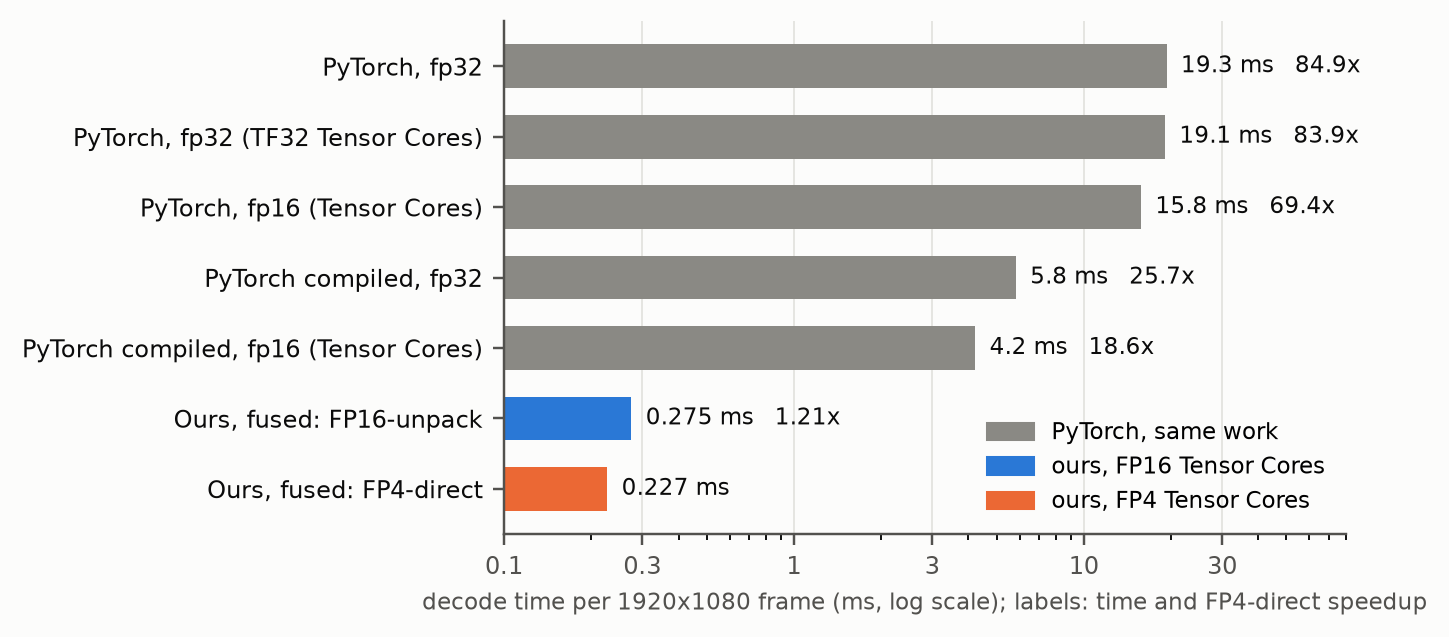
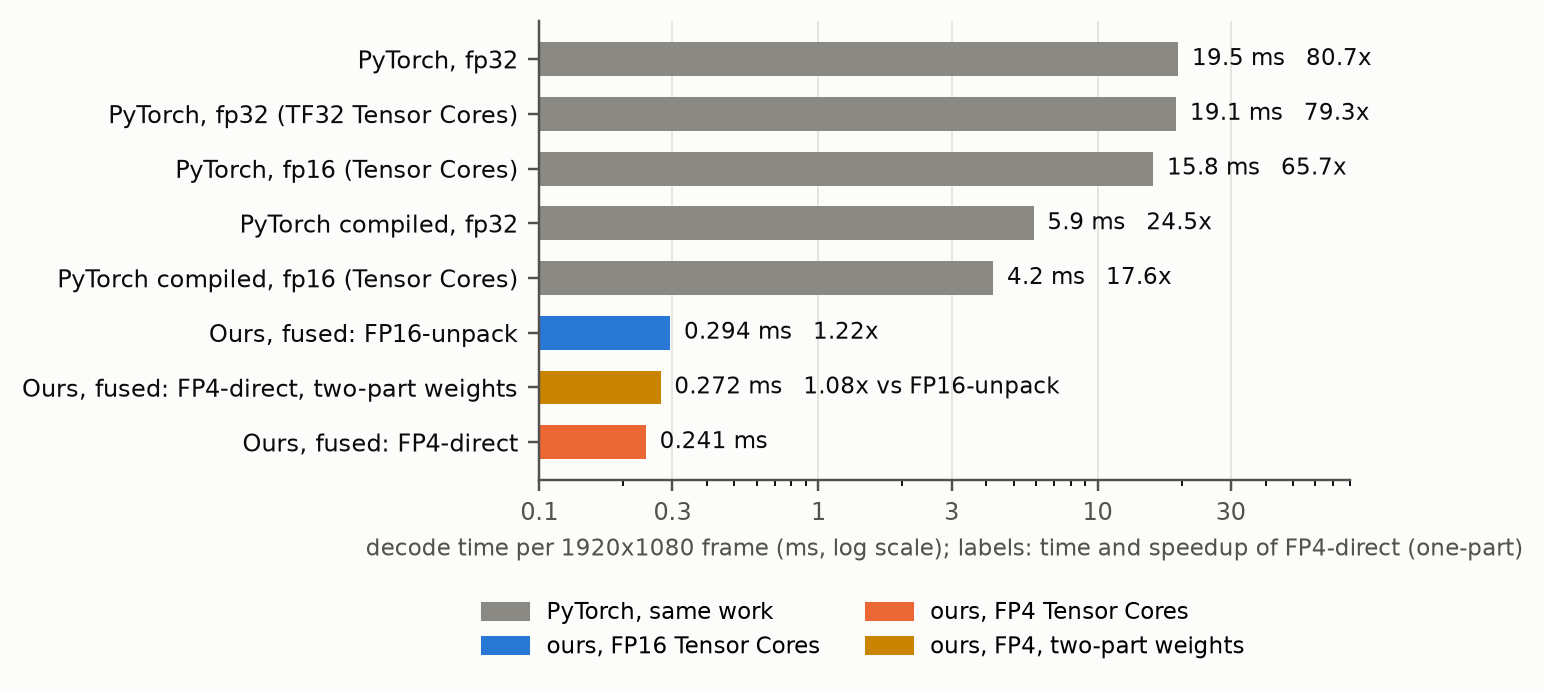
Speed chart rerun on the current kernel with two-part weights; paper-agent answers
v2_baselines.json: FP16-unpack 0.294 ms, FP4-direct 0.241 ms (1.22x), two-part 0.272 ms (1.08x);
PyTorch compiled fp16 4.23 ms. Old 0.227 ms set retired.

Claude-Session: https://claude.ai/code/session_01Nj5Cv9MaU5GTZzNHxUYmzu

Changed region(s): [[0.0, 0.0298, 0.9938, 0.8053], [0.2795, 0.8352, 0.9938, 0.9545]]

diff --git a/tools/plot_decoder_baselines.py b/tools/plot_decoder_baselines.py
@@ -16,7 +16,7 @@ from matplotlib.patches import Patch
 from sixteen.figures import INK, MUTED, style_axes
 
 ROOT = pathlib.Path(__file__).resolve().parent.parent
-GRAY, BLUE, ORANGE = "#8a8984", "#2a78d6", "#eb6834"
+GRAY, BLUE, ORANGE, AMBER = "#8a8984", "#2a78d6", "#eb6834", "#c98500"
 LABELS = {  # data key -> (axis label, color)
     "pytorch eager fp32 (CUDA cores)": ("PyTorch, fp32", GRAY),
     "pytorch eager fp32, TF32 Tensor Cores": ("PyTorch, fp32 (TF32 Tensor Cores)", GRAY),
@@ -25,7 +25,9 @@ LABELS = {  # data key -> (axis label, color)
     "pytorch compiled fp16 (Tensor Cores)": ("PyTorch compiled, fp16 (Tensor Cores)", GRAY),
     "CUDA FP16-unpack (ours)": ("Ours, fused: FP16-unpack", BLUE),
     "CUDA FP4-direct (ours)": ("Ours, fused: FP4-direct", ORANGE),
+    "CUDA FP4-direct two-part weights (ours)": ("Ours, fused: FP4-direct, two-part weights", AMBER),
 }
+X2 = "CUDA FP4-direct two-part weights (ours)"
 
 
 def main():
@@ -33,7 +35,7 @@ def main():
     ms = r["ms"]
     fp4 = ms["CUDA FP4-direct (ours)"]
     keys = sorted(ms, key=lambda k: ms[k], reverse=True)  # slowest on top
-    fig, ax = plt.subplots(figsize=(6.4, 3.0), facecolor="#fcfcfb")
+    fig, ax = plt.subplots(figsize=(6.4, 3.0 + 0.35 * (X2 in ms)), facecolor="#fcfcfb")
     style_axes(ax)
     ax.grid(axis="y", visible=False)
     y = range(len(keys))
@@ -46,15 +48,18 @@ def main():
     ax.set_yticks(list(y), [LABELS[k][0] for k in keys], fontsize=8, color=INK)
     for i, k in enumerate(keys):
         txt = f"{ms[k]:.3f} ms" if ms[k] < 1 else f"{ms[k]:.1f} ms"
-        if k != "CUDA FP4-direct (ours)":
+        if k == X2:
+            txt += f"   {ms["CUDA FP16-unpack (ours)"] / ms[k]:.2f}x vs FP16-unpack"
+        elif k != "CUDA FP4-direct (ours)":
             s = ms[k] / fp4
             txt += f"   {s:.2f}x" if s < 10 else f"   {s:.1f}x"
         ax.text(ms[k] * 1.12, i, txt, va="center", fontsize=7.5, color=INK)
-    ax.set_xlabel("decode time per 1920x1080 frame (ms, log scale); labels: time and FP4-direct speedup",
+    ax.set_xlabel("decode time per 1920x1080 frame (ms, log scale); labels: time and speedup of FP4-direct (one-part)",
                   fontsize=7.5, color=MUTED)
     ax.legend(handles=[Patch(color=GRAY, label="PyTorch, same work"), Patch(color=BLUE, label="ours, FP16 Tensor Cores"),
-                       Patch(color=ORANGE, label="ours, FP4 Tensor Cores")],
-              loc="lower right", frameon=False, fontsize=7.5)
+                       Patch(color=ORANGE, label="ours, FP4 Tensor Cores")]
+                      + ([Patch(color=AMBER, label="ours, FP4, two-part weights")] if X2 in ms else []),
+              loc="upper center", bbox_to_anchor=(0.4, -0.22), ncol=2, frameon=False, fontsize=7.5)
     fig.tight_layout()
     for ext in ("png", "pdf"):
         fig.savefig(ROOT / f"results/decoder/speedup.{ext}", dpi=220, bbox_inches="tight")

diff --git a/tools/bench_baselines.py b/tools/bench_baselines.py
@@ -5,7 +5,7 @@ texel choice, the 4 neighbouring latent texels of both grids, positional
 encoding + fractions, and the 3-layer MLP. Latents and layer-1 weights are
 quantized once up front (pre-quantized), so only decoding is timed.
 
-    pixi run python tools/bench_baselines.py <concat4 + nvfp4-weights model.pt>
+    pixi run python tools/bench_baselines.py <concat4 + nvfp4-weights model.pt> [--x2 <nvfp4x2-weights model.pt>]
 """
 
 import argparse
@@ -51,6 +51,7 @@ def make_forward(dec, dtype):
 def main():
     ap = argparse.ArgumentParser()
     ap.add_argument("ckpt")
+    ap.add_argument("--x2", help="concat4 model with two-term NVFP4 layer-1 weights: also time FP4-direct two-part")
     ap.add_argument("--out", default="results/decoder/v2_baselines.json")
     args = ap.parse_args()
     dec = CudaDecoderV2.from_checkpoint(args.ckpt)
@@ -80,6 +81,12 @@ def main():
         out = dec(uv, 0, blocks=sm * 4, **kw)
         r["max_abs_err_vs_fp32_ref"][name] = (out - ref).abs().max().item()
         r["ms"][name] = statistics.median(timed(lambda: dec(uv, 0, blocks=sm * 4, **kw)) for _ in range(5))
+        print(f"{name:42s} {r['ms'][name]:8.3f} ms   max err {r['max_abs_err_vs_fp32_ref'][name]:.4f}", flush=True)
+    if args.x2:
+        d2 = CudaDecoderV2.from_checkpoint(args.x2)
+        name, ref2 = "CUDA FP4-direct two-part weights (ours)", d2.reference(uv, 0)
+        r["max_abs_err_vs_fp32_ref"][name] = (d2(uv, 0, blocks=sm * 4, min_blocks=4) - ref2).abs().max().item()
+        r["ms"][name] = statistics.median(timed(lambda: d2(uv, 0, blocks=sm * 4, min_blocks=4)) for _ in range(5))
         print(f"{name:42s} {r['ms'][name]:8.3f} ms   max err {r['max_abs_err_vs_fp32_ref'][name]:.4f}", flush=True)
     fp4 = r["ms"]["CUDA FP4-direct (ours)"]
     r["speedup_of_fp4_direct_over"] = {k: v / fp4 for k, v in r["ms"].items()}

diff --git a/docs/paper-agent-qa.md b/docs/paper-agent-qa.md
@@ -1,4 +1,60 @@
-# Answers for the paper agent (updated 2026-11-22, with idle-GPU timings)
+# Answers for the paper agent (updated 2026-11-22, after eaec7e1)
+
+## Latest: answers to your 6 questions (supersede anything below)
+
+Include the data we have, even where it is not the best yet, and say we are
+still improving it (two-part weights, layer-2 FP8, Bistro refit).
+
+1. **Canonical decode times: the new kernel, one consistent run.**
+   - File: `results/decoder/v2_baselines.json`; chart: `results/decoder/speedup.{png,pdf}`
+     (`tools/bench_baselines.py --x2 ...`, `tools/plot_decoder_baselines.py`).
+   - Same run: PyTorch eager/TF32/fp16, compiled fp32/fp16, FP16-unpack, FP4-direct, and FP4-direct with two-part weights.
+   - Retire the 0.227 ms / 1.18–1.21x set (`v2_best_vs_best.json`, the timing tables in `v2_profile.md`); keep the
+     Nsight Compute analysis in `v2_profile.md` (bottleneck explanation still holds).
+   - `results/decoder/w1_modes.json` is the interleaved mode sweep (all register caps, prefetch on/off); use it
+     for the claim that launch settings and prefetching do not change the ranking.
+   - Speed chart caption: the PyTorch gap is fusion; the FP4-specific gain is FP4-direct vs FP16-unpack.
+2. **Two-part weights (W ≈ q(W) + q(W − q(W)), two FP4 MMAs per grid): present it as the quality-preserving option, work in progress.**
+   - Quality: `results/w1-weights/results.json` (castle_brick_07, 2 seeds, FLIP vs bilinear; use `flip_vs_bilinear_pct`).
+   - Speed: `v2_baselines.json`.
+   - Paper framing: a trade-off we are still improving.
+     - One-part FP4 weights are fastest but cost quality.
+     - Two-part weights recover the quality (on par with unquantized weights) at a smaller speedup.
+     - Say we are working on closing the speed gap.
+   - Do not call either one final.
+   - MXFP8 weights (needs the FP4 x FP8 MMA): report as rejected.
+     - Worse quality.
+     - Its K = 32 tile shares one scale per 2 texels, which breaks the 4-texel mapping.
+     - Measured 1.18x speedup (commit c7a2461), timing only.
+   - Bistro: not refit by me. A teammate is running `configs/bistro-v2x2.yaml`.
+     - Until that lands, keep 0.0153 vs 0.0106 (`results/renderer/neural-compare*/neural_compare.json`) as the one-part result.
+     - Add that the two-part refit is in progress.
+     - Per-material flat-plane change (one-part vs bilinear) is in the same files (`per_material[].flip_flat_plane`).
+       - Detailed materials (plasters) are close to castle_brick.
+       - Smooth ones (ceramic, painted wood) get the largest relative increase from a small base.
+3. **Rounding on the FP4-ready (concat4 + NVFP4 W1) model: no results yet.** Write it as future work.
+4. **Rendering-aware rounding optimizer (`tools/shading_rounding.py`):**
+   - Parameterization:
+     - Only latents within band 0.05 of a rounding midpoint are free: |t − 0.5| < 0.05, where t is the position between the two neighbouring E2M1 grid points. All other latents round to nearest.
+     - Each free latent has h = rectified sigmoid (sigmoid(a) · 1.2 − 0.1, clamped to [0, 1]); the value is lo + h · (hi − lo).
+     - Init h = 0.7 / 0.3 toward the nearest choice.
+   - Optimizer: Adam, lr 1e-2, 3000 steps, batch 2^20 texels.
+   - Loss:
+     - texel loss + 4 x shading loss + λ · mean(1 − |2h − 1|^β).
+     - β anneals from 20 to 2.
+     - λ = 0 for the first 10 % of steps, then ramps to 0.05 over half the run.
+   - Block scales are fixed by the format rule; the MLP is frozen.
+   - Final choice: h > 0.5.
+   - "more-qat" control: the same number of extra STE-QAT steps at QAT's final lr.
+5. **Still open:** Bistro frame time on an idle GPU, and the BC1/BC5 equal-memory baseline. Mark both `\todo`.
+6. **Corrections:**
+   - Single-term NVFP4 W1 cost on castle_brick_07 is **+10.8 %** FLIP vs bilinear (2 seeds), not +12 % (1 seed).
+   - The 4-neighbour layout alone is **+2.5 %** (2 seeds), not +2.3 %.
+   - Do not compare flat-plane FLIP (≈0.01–0.06 per material) with room FLIP (≈0.01). They are different measurements; compare within one.
+   - Replace 0.227 ms and 1.18–1.21x everywhere with the `v2_baselines.json` numbers.
+
+---
+
 
 Latest state. Supersedes the earlier version of this file (commit 2d499e5).
 

diff --git a/results/decoder/v2_profile.md b/results/decoder/v2_profile.md
@@ -1,5 +1,7 @@
 # Decoder v2 profile (idle RTX PRO 6000 Blackwell, castle_brick_07, concat4 + NVFP4 weights)
 
+> **Timings superseded** (2026-11-22): canonical decode times are in `v2_baselines.json` (current kernel, one run, incl. two-part weights). The Nsight Compute analysis below still holds.
+
 One 1920x1080 frame, one lookup per pixel. Event timing at normal clocks
 (`v2_idle_time_tiles*.json`, best of 3 x 200 launches) and Nsight Compute 2025.2
 (`--set full`, locked base clocks; report `out/profile_decoder/v2.ncu-rep`).
